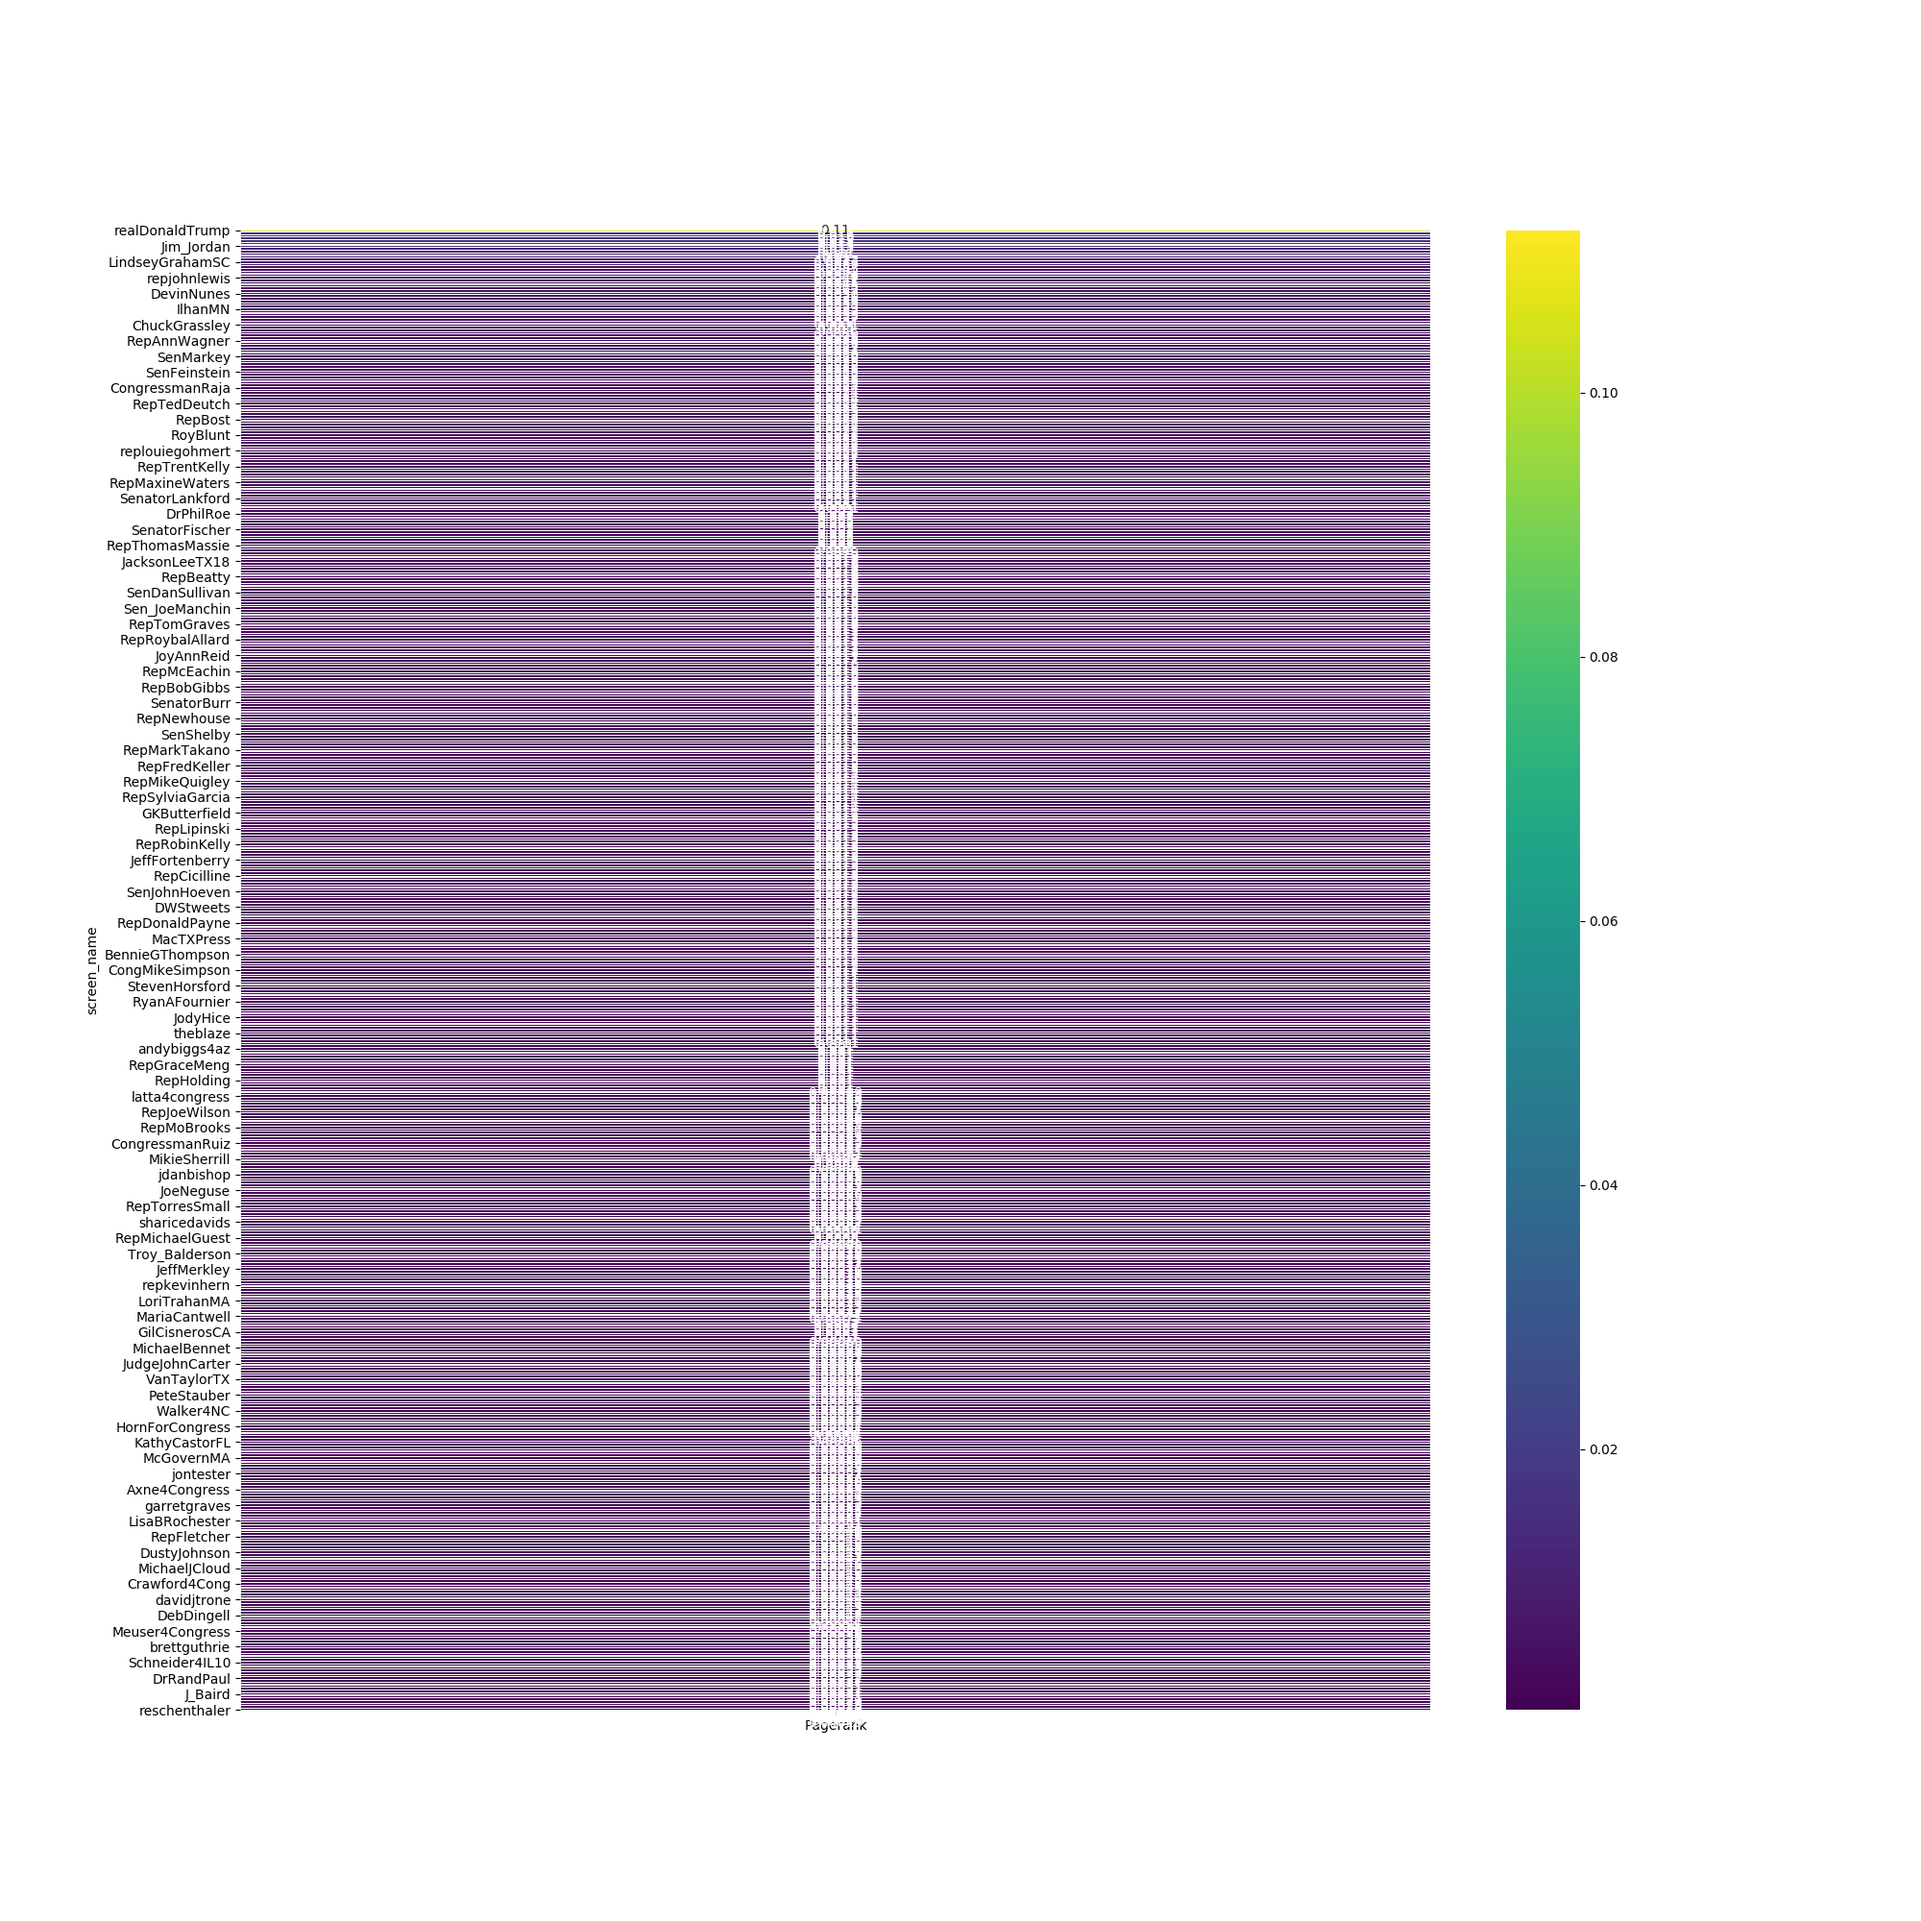
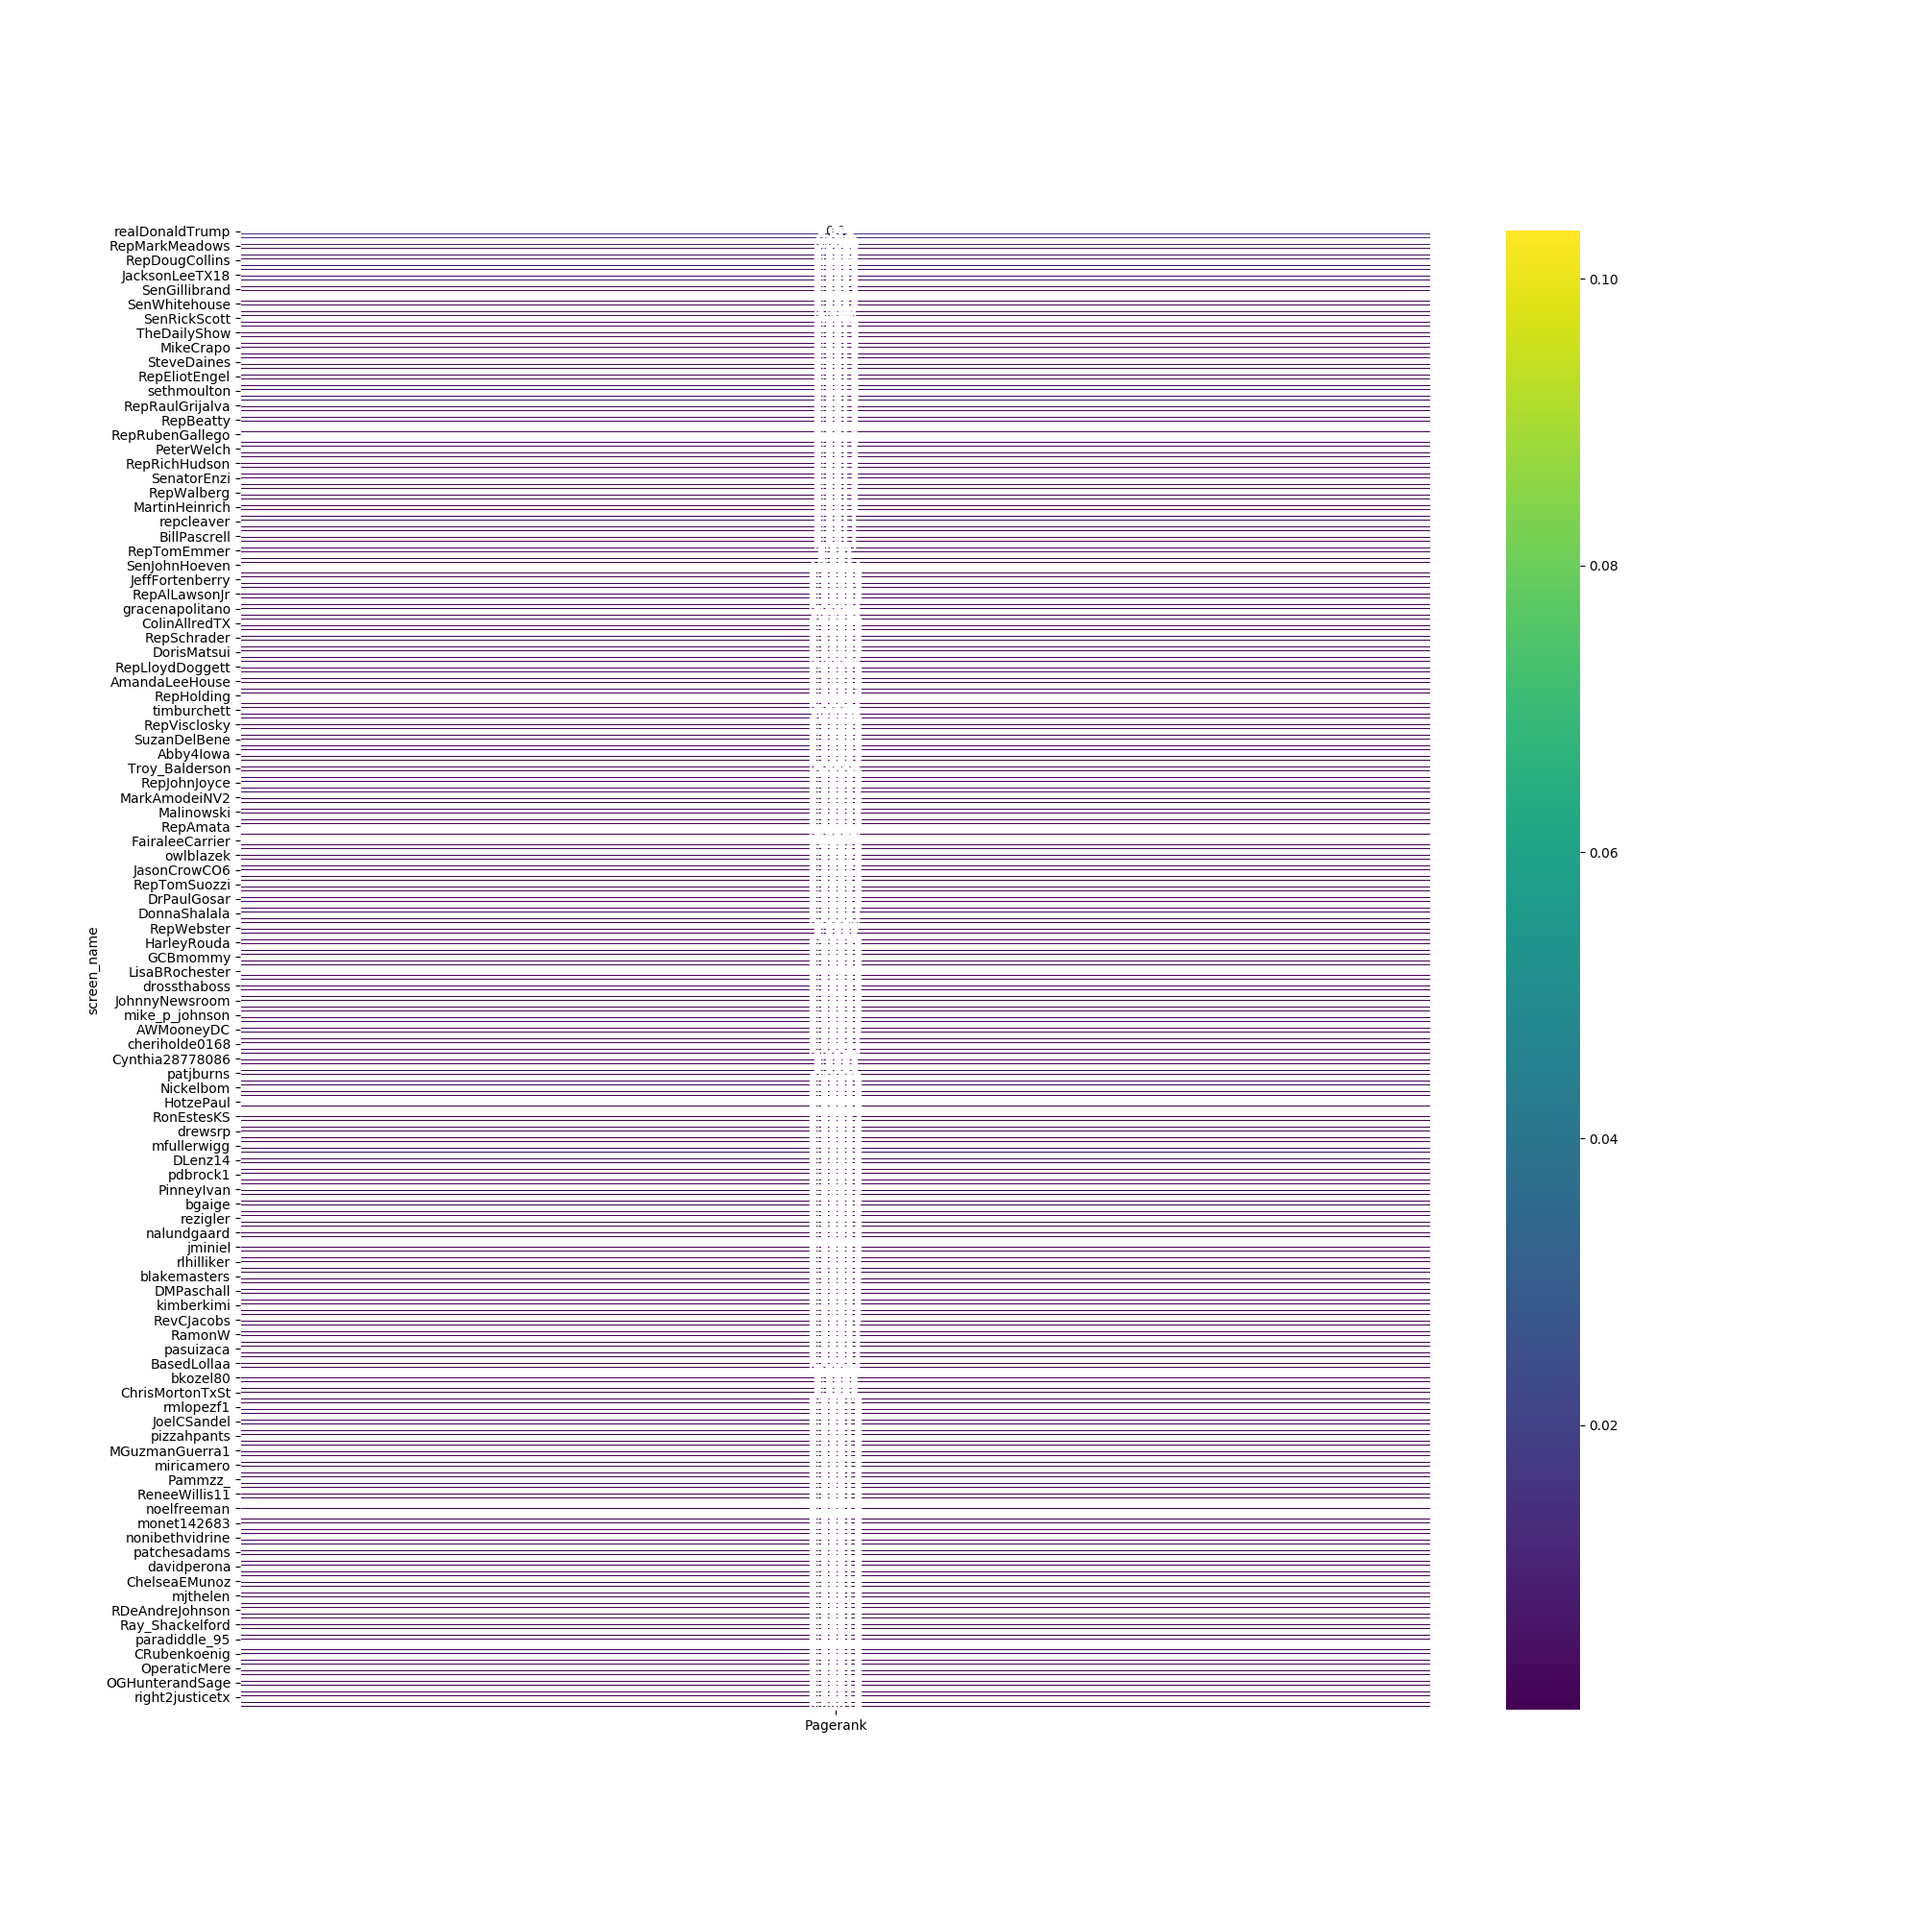
Processing adjacency matrice for influencers and testusers together

Changed region(s): [[0.031, 0.124, 0.744, 0.899]]

diff --git a/w295/scripts/mics_generate_matlab_matrices.py b/w295/scripts/mics_generate_matlab_matrices.py
@@ -1,0 +1,103 @@
+#!/usr/bin/python3
+import pymysql, numpy as np
+from numpy import linalg as LA
+import sys
+import seaborn as sns
+import matplotlib.pyplot as plt
+import pandas as pd
+
+con = pymysql.connect(host='w295ft.ckge4y2pabwj.us-east-1.rds.amazonaws.com',
+  port=3306,
+  user='w295',
+  passwd='asdASD123',
+  db='w295')
+
+cursor = con.cursor(pymysql.cursors.DictCursor)
+cursor.execute("SELECT id, id_str, screen_name FROM v_pagerank_users ORDER BY id")
+influencers_results = cursor.fetchall()
+
+likes = np.zeros((len(influencers_results), len(influencers_results)), np.int32)
+comments = np.zeros((len(influencers_results), len(influencers_results)), np.int32)
+followings = np.zeros((len(influencers_results), len(influencers_results)), np.int32)
+
+influencers = {}
+
+for i, r in enumerate(influencers_results):
+  influencers[r["id_str"]] = i
+
+cursor.execute("SELECT * FROM adjacency_matrix WHERE likes <> 0 OR comments <> 0 OR followings <> 0")
+pagerank_results = cursor.fetchall()
+
+if -1 in [r["followings"] for r in pagerank_results]:
+  print ("Adjacency matrix is not calculated. Wait for 5-10 minutes please.")
+  exit()
+
+for r in pagerank_results:
+  i = influencers[str(r["source_twitter_id"])]
+  j = influencers[str(r["destination_twitter_id"])]
+
+  likes[i,j] = r["likes"]
+  comments[i,j] = r["comments"]
+  followings[i,j] = r["followings"]
+
+#pageranking
+adj = np.transpose(followings.data) + np.transpose(likes.data) + np.transpose(comments.data)
+
+damping_factor = 0.85
+
+delta = (1-damping_factor)/np.shape(adj)[1]
+
+
+#delta = (1-damping factor)/column vertex_size
+#run eigenvalue function on adjacency matrix to get pg rank values
+norm_adj = damping_factor * adj/adj.sum(axis=0)[None,:] + delta
+
+norm_adj = np.where(np.isnan(norm_adj),1/np.shape(norm_adj)[1],norm_adj)
+
+#v is eigenvalue, d is eigenvector
+v, d = LA.eig(norm_adj)
+
+distances = np.absolute(1 - v)
+
+ii = np.argmin(distances)
+pagerank_almost = d[:,ii].real
+
+#normalize pagerank_almost
+pagerank = pagerank_almost/np.sum(pagerank_almost)
+
+
+#get influencers
+inf_df = pd.DataFrame(influencers_results)
+#append pagerank column
+inf_df['pagerank'] = pagerank
+#sort by pagerank
+inf_df = inf_df.sort_values(by=['pagerank'], ascending=False)
+inf_df = inf_df.reset_index(drop=True)
+
+
+hm = pd.DataFrame({'Pagerank':inf_df['pagerank'].values},
+                 index=inf_df['screen_name'])
+
+
+plt.figure(figsize = (20,20))
+sns.heatmap(hm,annot=True, linewidths=.1, cmap='viridis')
+
+
+plt.savefig('inf_heatmap.png')
+
+#print (inf_df)
+
+for index, pr in inf_df.iterrows():
+  print (pr['id'], pr['pagerank'])
+  cursor.execute("UPDATE users SET pagerank = %s WHERE id = %s", (pr['pagerank'], pr['id']))
+  con.commit()
+
+
+
+print (influencers_results)
+print (influencers)
+print (likes)
+print (comments)
+print (followings)
+
+con.close()

diff --git a/w295/scripts/mics_process_adjacency_matrice.py b/w295/scripts/mics_process_adjacency_matrice.py
@@ -8,7 +8,7 @@ con = pymysql.connect(host='w295ft.ckge4y2pabwj.us-east-1.rds.amazonaws.com',
   db='w295')
 
 cursor = con.cursor(pymysql.cursors.DictCursor)
-cursor.execute("call P_REFRESH_ADJACENCY_MATRIX_FOR_ALL_USERS")
+cursor.execute("call P_REFRESH_ADJACENCY_MATRIX_FOR_PAGERANK_USERS")
 
 con.close()
 
